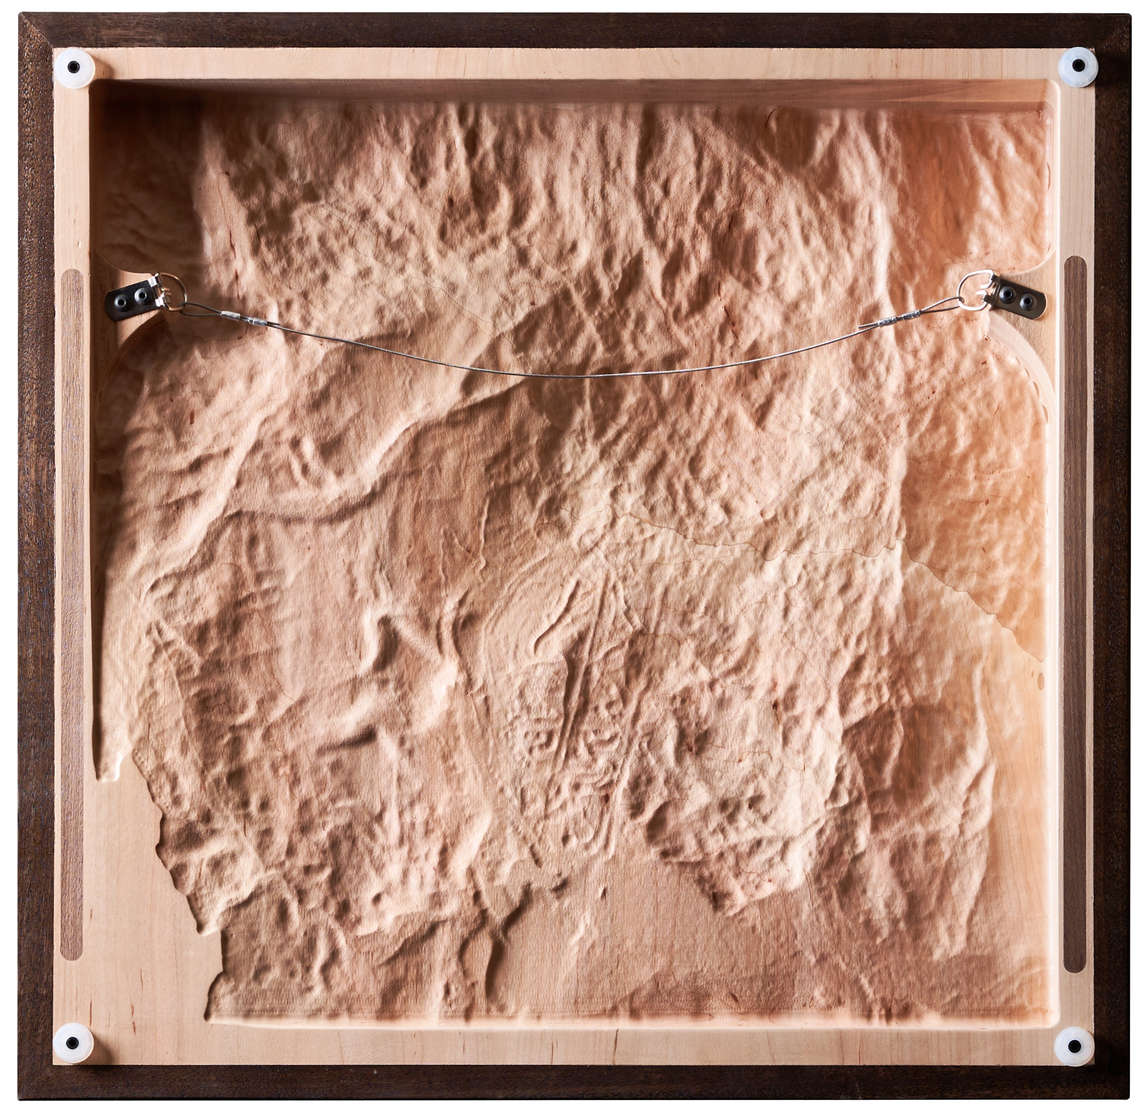
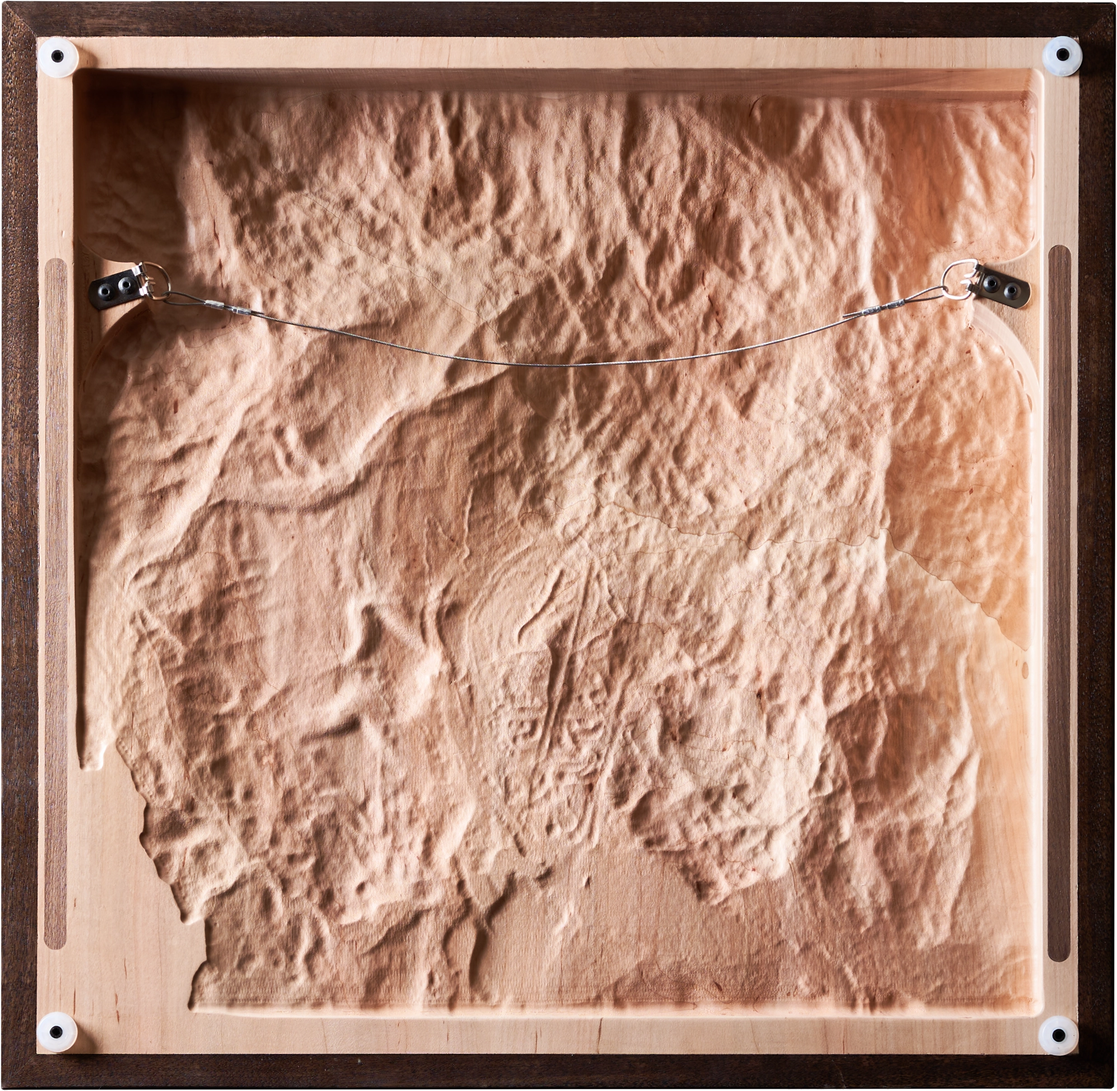
Update

diff --git a/pieces/highland.html b/pieces/highland.html
@@ -6,10 +6,10 @@
   <title>Highland Mountain Bike Trails — Bonas Studio</title>
   <link rel="stylesheet" href="../styles.css">
   <style>
-    .piece-hero { position: relative; background: transparent; /* Preserves transparent PNG backgrounds */ padding: 120px var(--space-4) 60px; min-height: auto; }
+    .piece-hero { position: relative; background: transparent; /* Preserves transparent PNG/WebP backgrounds */ padding: 120px var(--space-4) 60px; min-height: auto; }
     .piece-hero::after { content: ''; position: absolute; inset: 0; background: radial-gradient(ellipse at center, transparent 40%, rgba(0,0,0,0.02) 100%); pointer-events: none; z-index: 1; }
     .piece-hero-image-container { position: relative; z-index: 2; max-width: 1400px; margin: 0 auto; padding: 0 var(--space-6); }
-    .piece-hero-image { width: 100%; height: auto; display: block; box-shadow: 0 8px 24px rgba(0,0,0,0.12), 0 2px 6px rgba(0,0,0,0.08); opacity: 0; transform: translateY(20px); animation: fadeInUp 1.8s ease 0.2s forwards; }
+    .piece-hero-image { width: 100%; height: auto; display: block; /* Box-shadow removed - interferes with transparent PNG/WebP backgrounds */ opacity: 0; transform: translateY(20px); animation: fadeInUp 1.8s ease 0.2s forwards; }
     .piece-hero-content { position: relative; z-index: 2; max-width: 1400px; margin: var(--space-6) auto 0; padding: 0 calc(var(--space-6) + var(--space-2)); text-align: left; }
     .piece-hero-title { font-family: var(--font-primary); font-size: var(--text-xl); font-weight: var(--weight-regular); line-height: var(--leading-tight); color: var(--color-text-primary); margin: 0 0 var(--space-1); opacity: 0; animation: fadeInUp 1.8s ease 0.5s forwards; }
     .piece-hero-location { font-family: var(--font-secondary); font-size: var(--text-xs); font-weight: var(--weight-regular); text-transform: uppercase; letter-spacing: 0.15em; color: var(--color-brass); margin: 0; opacity: 0; animation: fadeInUp 1.8s ease 0.7s forwards; }
@@ -29,7 +29,7 @@
 .gallery-images { display: flex; flex-direction: column; gap: var(--space-8); max-width: 1200px; margin: 0 auto; padding: 0 var(--space-4); }
     .gallery-image-wrapper { position: relative; width: 100%; opacity: 0; transform: translateY(40px); transition: opacity 1.8s ease, transform 1.8s ease; }
     .gallery-image-wrapper.is-visible { opacity: 1; transform: translateY(0); }
-    .gallery-image-wrapper img { width: 100%; height: auto; display: block; box-shadow: 0 4px 12px rgba(0,0,0,0.08); }
+    .gallery-image-wrapper img { width: 100%; height: auto; display: block; /* Box-shadow removed - interferes with transparent PNG/WebP backgrounds */ }
     .gallery-caption { font-family: var(--font-secondary); font-size: var(--text-xs); font-style: italic; color: var(--color-text-secondary); text-align: left; margin: var(--space-2) 0 0; padding: 0 var(--space-2); opacity: 0.7; }
     .piece-artists-note { background: var(--color-bg-dark); padding: var(--section-padding-y) 0; }
     .artists-note-content { max-width: 800px; margin: 0 auto; }
@@ -76,7 +76,7 @@
   <main class="site-main">
     <section class="piece-hero" id="piece-hero">
       <div class="piece-hero-image-container">
-        <img src="../images/highland/highland.back.png" alt="Highland Mountain Bike Trails topographic relief map" class="piece-hero-image" />
+        <img src="../images/highland/highland.hero.webp" alt="Highland Mountain Bike Trails topographic relief map" class="piece-hero-image" />
       </div>
       <div class="piece-hero-content">
         <h1 class="piece-hero-title">Highland Mountain</h1>
@@ -126,15 +126,15 @@
             <p class="gallery-caption">Full piece showing entire topography</p>
           </div>
           <div class="gallery-image-wrapper fade-in-scroll">
-            <img src="../images/highland/highland.hero.webp" alt="Highland Mountain detail" />
+            <img src="../images/highland/highland.base.webp" alt="Highland Mountain detail" />
             <p class="gallery-caption">Detail of trail network</p>
           </div>
           <div class="gallery-image-wrapper fade-in-scroll">
-            <img src="../images/highland/highland.hero (1).webp" alt="Highland Mountain side angle" />
+            <img src="../images/highland/highland.detail.webp" alt="Highland Mountain side angle" />
             <p class="gallery-caption">Side angle showing depth</p>
           </div>
           <div class="gallery-image-wrapper fade-in-scroll">
-            <img src="../images/highland/highland.back (6).webp" alt="Highland Mountain wood grain" />
+            <img src="../images/highland/highland.back.webp" alt="Highland Mountain wood grain" />
             <p class="gallery-caption">Close view of wood grain</p>
           </div>
         </div>

diff --git a/pieces/fells.html b/pieces/fells.html
@@ -6,10 +6,10 @@
   <title>Middlesex Fells Reservation — Bonas Studio</title>
   <link rel="stylesheet" href="../styles.css">
   <style>
-    .piece-hero { position: relative; background: transparent; /* Preserves transparent PNG backgrounds */ padding: 120px var(--space-4) 60px; min-height: auto; }
+    .piece-hero { position: relative; background: transparent; /* Preserves transparent PNG/WebP backgrounds */ padding: 120px var(--space-4) 60px; min-height: auto; }
     .piece-hero::after { content: ''; position: absolute; inset: 0; background: radial-gradient(ellipse at center, transparent 40%, rgba(0,0,0,0.02) 100%); pointer-events: none; z-index: 1; }
     .piece-hero-image-container { position: relative; z-index: 2; max-width: 1400px; margin: 0 auto; padding: 0 var(--space-6); }
-    .piece-hero-image { width: 100%; height: auto; display: block; box-shadow: 0 8px 24px rgba(0,0,0,0.12), 0 2px 6px rgba(0,0,0,0.08); opacity: 0; transform: translateY(20px); animation: fadeInUp 1.8s ease 0.2s forwards; }
+    .piece-hero-image { width: 100%; height: auto; display: block; /* Box-shadow removed - interferes with transparent PNG/WebP backgrounds */ opacity: 0; transform: translateY(20px); animation: fadeInUp 1.8s ease 0.2s forwards; }
     .piece-hero-content { position: relative; z-index: 2; max-width: 1400px; margin: var(--space-6) auto 0; padding: 0 calc(var(--space-6) + var(--space-2)); text-align: left; }
     .piece-hero-title { font-family: var(--font-primary); font-size: var(--text-xl); font-weight: var(--weight-regular); line-height: var(--leading-tight); color: var(--color-text-primary); margin: 0 0 var(--space-1); opacity: 0; animation: fadeInUp 1.8s ease 0.5s forwards; }
     .piece-hero-location { font-family: var(--font-secondary); font-size: var(--text-xs); font-weight: var(--weight-regular); text-transform: uppercase; letter-spacing: 0.15em; color: var(--color-brass); margin: 0; opacity: 0; animation: fadeInUp 1.8s ease 0.7s forwards; }
@@ -29,7 +29,7 @@
 .gallery-images { display: flex; flex-direction: column; gap: var(--space-8); max-width: 1200px; margin: 0 auto; padding: 0 var(--space-4); }
     .gallery-image-wrapper { position: relative; width: 100%; opacity: 0; transform: translateY(40px); transition: opacity 1.8s ease, transform 1.8s ease; }
     .gallery-image-wrapper.is-visible { opacity: 1; transform: translateY(0); }
-    .gallery-image-wrapper img { width: 100%; height: auto; display: block; box-shadow: 0 4px 12px rgba(0,0,0,0.08); }
+    .gallery-image-wrapper img { width: 100%; height: auto; display: block; /* Box-shadow removed - interferes with transparent PNG/WebP backgrounds */ }
     .gallery-caption { font-family: var(--font-secondary); font-size: var(--text-xs); font-style: italic; color: var(--color-text-secondary); text-align: left; margin: var(--space-2) 0 0; padding: 0 var(--space-2); opacity: 0.7; }
     .piece-artists-note { background: var(--color-bg-dark); padding: var(--section-padding-y) 0; }
     .artists-note-content { max-width: 800px; margin: 0 auto; }

diff --git a/pieces/hurricane.html b/pieces/hurricane.html
@@ -6,10 +6,10 @@
   <title>Hurricane Mountain - Bonas Studio</title>
   <link rel="stylesheet" href="../styles.css">
   <style>
-    .piece-hero { position: relative; background: transparent; /* Preserves transparent PNG backgrounds */ padding: 120px var(--space-4) 60px; min-height: auto; }
+    .piece-hero { position: relative; background: transparent; /* Preserves transparent PNG/WebP backgrounds */ padding: 120px var(--space-4) 60px; min-height: auto; }
     .piece-hero::after { content: ''; position: absolute; inset: 0; background: radial-gradient(ellipse at center, transparent 40%, rgba(0,0,0,0.02) 100%); pointer-events: none; z-index: 1; }
     .piece-hero-image-container { position: relative; z-index: 2; max-width: 1400px; margin: 0 auto; padding: 0 var(--space-6); }
-    .piece-hero-image { width: 100%; height: auto; display: block; box-shadow: 0 8px 24px rgba(0,0,0,0.12), 0 2px 6px rgba(0,0,0,0.08); opacity: 0; transform: translateY(20px); animation: fadeInUp 1.8s ease 0.2s forwards; }
+    .piece-hero-image { width: 100%; height: auto; display: block; /* Box-shadow removed - interferes with transparent PNG/WebP backgrounds */ opacity: 0; transform: translateY(20px); animation: fadeInUp 1.8s ease 0.2s forwards; }
     .piece-hero-content { position: relative; z-index: 2; max-width: 1400px; margin: var(--space-6) auto 0; padding: 0 calc(var(--space-6) + var(--space-2)); text-align: left; }
     .piece-hero-title { font-family: var(--font-primary); font-size: var(--text-xl); font-weight: var(--weight-regular); line-height: var(--leading-tight); color: var(--color-text-primary); margin: 0 0 var(--space-1); opacity: 0; animation: fadeInUp 1.8s ease 0.5s forwards; }
     .piece-hero-location { font-family: var(--font-secondary); font-size: var(--text-xs); font-weight: var(--weight-regular); text-transform: uppercase; letter-spacing: 0.15em; color: var(--color-brass); margin: 0; opacity: 0; animation: fadeInUp 1.8s ease 0.7s forwards; }
@@ -29,7 +29,7 @@
     .gallery-images { display: flex; flex-direction: column; gap: var(--space-8); max-width: 1200px; margin: 0 auto; padding: 0 var(--space-4); }
     .gallery-image-wrapper { position: relative; width: 100%; opacity: 0; transform: translateY(40px); transition: opacity 1.8s ease, transform 1.8s ease; }
     .gallery-image-wrapper.is-visible { opacity: 1; transform: translateY(0); }
-    .gallery-image-wrapper img { width: 100%; height: auto; display: block; box-shadow: 0 4px 12px rgba(0,0,0,0.08); }
+    .gallery-image-wrapper img { width: 100%; height: auto; display: block; /* Box-shadow removed - interferes with transparent PNG/WebP backgrounds */ }
     .gallery-caption { font-family: var(--font-secondary); font-size: var(--text-xs); font-style: italic; color: var(--color-text-secondary); text-align: left; margin: var(--space-2) 0 0; padding: 0 var(--space-2); opacity: 0.7; }
     .piece-artists-note { background: var(--color-bg-dark); padding: var(--section-padding-y) 0; }
     .artists-note-content { max-width: 800px; margin: 0 auto; }

diff --git a/pieces/nantucket.html b/pieces/nantucket.html
@@ -6,10 +6,10 @@
   <title>Nantucket Island — Bonas Studio</title>
   <link rel="stylesheet" href="../styles.css">
   <style>
-    .piece-hero { position: relative; background: transparent; /* Preserves transparent PNG backgrounds */ padding: 120px var(--space-4) 60px; min-height: auto; }
+    .piece-hero { position: relative; background: transparent; /* Preserves transparent PNG/WebP backgrounds */ padding: 120px var(--space-4) 60px; min-height: auto; }
     .piece-hero::after { content: ''; position: absolute; inset: 0; background: radial-gradient(ellipse at center, transparent 40%, rgba(0,0,0,0.02) 100%); pointer-events: none; z-index: 1; }
     .piece-hero-image-container { position: relative; z-index: 2; max-width: 1400px; margin: 0 auto; padding: 0 var(--space-6); }
-    .piece-hero-image { width: 100%; height: auto; display: block; box-shadow: 0 8px 24px rgba(0,0,0,0.12), 0 2px 6px rgba(0,0,0,0.08); opacity: 0; transform: translateY(20px); animation: fadeInUp 1.8s ease 0.2s forwards; }
+    .piece-hero-image { width: 100%; height: auto; display: block; /* Box-shadow removed - interferes with transparent PNG/WebP backgrounds */ opacity: 0; transform: translateY(20px); animation: fadeInUp 1.8s ease 0.2s forwards; }
     .piece-hero-content { position: relative; z-index: 2; max-width: 1400px; margin: var(--space-6) auto 0; padding: 0 calc(var(--space-6) + var(--space-2)); text-align: left; }
     .piece-hero-title { font-family: var(--font-primary); font-size: var(--text-xl); font-weight: var(--weight-regular); line-height: var(--leading-tight); color: var(--color-text-primary); margin: 0 0 var(--space-1); opacity: 0; animation: fadeInUp 1.8s ease 0.5s forwards; }
     .piece-hero-location { font-family: var(--font-secondary); font-size: var(--text-xs); font-weight: var(--weight-regular); text-transform: uppercase; letter-spacing: 0.15em; color: var(--color-brass); margin: 0; opacity: 0; animation: fadeInUp 1.8s ease 0.7s forwards; }
@@ -29,7 +29,7 @@
 .gallery-images { display: flex; flex-direction: column; gap: var(--space-8); max-width: 1200px; margin: 0 auto; padding: 0 var(--space-4); }
     .gallery-image-wrapper { position: relative; width: 100%; opacity: 0; transform: translateY(40px); transition: opacity 1.8s ease, transform 1.8s ease; }
     .gallery-image-wrapper.is-visible { opacity: 1; transform: translateY(0); }
-    .gallery-image-wrapper img { width: 100%; height: auto; display: block; box-shadow: 0 4px 12px rgba(0,0,0,0.08); }
+    .gallery-image-wrapper img { width: 100%; height: auto; display: block; /* Box-shadow removed - interferes with transparent PNG/WebP backgrounds */ }
     .gallery-caption { font-family: var(--font-secondary); font-size: var(--text-xs); font-style: italic; color: var(--color-text-secondary); text-align: left; margin: var(--space-2) 0 0; padding: 0 var(--space-2); opacity: 0.7; }
     .piece-artists-note { background: var(--color-bg-dark); padding: var(--section-padding-y) 0; }
     .artists-note-content { max-width: 800px; margin: 0 auto; }

diff --git a/pieces/okemo.html b/pieces/okemo.html
@@ -6,10 +6,10 @@
   <title>Mount Okemo — Bonas Studio</title>
   <link rel="stylesheet" href="../styles.css">
   <style>
-    .piece-hero { position: relative; background: transparent; /* Preserves transparent PNG backgrounds */ padding: 120px var(--space-4) 60px; min-height: auto; }
+    .piece-hero { position: relative; background: transparent; /* Preserves transparent PNG/WebP backgrounds */ padding: 120px var(--space-4) 60px; min-height: auto; }
     .piece-hero::after { content: ''; position: absolute; inset: 0; background: radial-gradient(ellipse at center, transparent 40%, rgba(0,0,0,0.02) 100%); pointer-events: none; z-index: 1; }
     .piece-hero-image-container { position: relative; z-index: 2; max-width: 1400px; margin: 0 auto; padding: 0 var(--space-6); }
-    .piece-hero-image { width: 100%; height: auto; display: block; box-shadow: 0 8px 24px rgba(0,0,0,0.12), 0 2px 6px rgba(0,0,0,0.08); opacity: 0; transform: translateY(20px); animation: fadeInUp 1.8s ease 0.2s forwards; }
+    .piece-hero-image { width: 100%; height: auto; display: block; /* Box-shadow removed - interferes with transparent PNG/WebP backgrounds */ opacity: 0; transform: translateY(20px); animation: fadeInUp 1.8s ease 0.2s forwards; }
     .piece-hero-content { position: relative; z-index: 2; max-width: 1400px; margin: var(--space-6) auto 0; padding: 0 calc(var(--space-6) + var(--space-2)); text-align: left; }
     .piece-hero-title { font-family: var(--font-primary); font-size: var(--text-xl); font-weight: var(--weight-regular); line-height: var(--leading-tight); color: var(--color-text-primary); margin: 0 0 var(--space-1); opacity: 0; animation: fadeInUp 1.8s ease 0.5s forwards; }
     .piece-hero-location { font-family: var(--font-secondary); font-size: var(--text-xs); font-weight: var(--weight-regular); text-transform: uppercase; letter-spacing: 0.15em; color: var(--color-brass); margin: 0; opacity: 0; animation: fadeInUp 1.8s ease 0.7s forwards; }
@@ -29,7 +29,7 @@
 .gallery-images { display: flex; flex-direction: column; gap: var(--space-8); max-width: 1200px; margin: 0 auto; padding: 0 var(--space-4); }
     .gallery-image-wrapper { position: relative; width: 100%; opacity: 0; transform: translateY(40px); transition: opacity 1.8s ease, transform 1.8s ease; }
     .gallery-image-wrapper.is-visible { opacity: 1; transform: translateY(0); }
-    .gallery-image-wrapper img { width: 100%; height: auto; display: block; box-shadow: 0 4px 12px rgba(0,0,0,0.08); }
+    .gallery-image-wrapper img { width: 100%; height: auto; display: block; /* Box-shadow removed - interferes with transparent PNG/WebP backgrounds */ }
     .gallery-caption { font-family: var(--font-secondary); font-size: var(--text-xs); font-style: italic; color: var(--color-text-secondary); text-align: left; margin: var(--space-2) 0 0; padding: 0 var(--space-2); opacity: 0.7; }
     .piece-artists-note { background: var(--color-bg-dark); padding: var(--section-padding-y) 0; }
     .artists-note-content { max-width: 800px; margin: 0 auto; }

diff --git a/pieces/cape-ann.html b/pieces/cape-ann.html
@@ -6,10 +6,10 @@
   <title>Cape Ann — Bonas Studio</title>
   <link rel="stylesheet" href="../styles.css">
   <style>
-    .piece-hero { position: relative; background: transparent; /* Preserves transparent PNG backgrounds */ padding: 120px var(--space-4) 60px; min-height: auto; }
+    .piece-hero { position: relative; background: transparent; /* Preserves transparent PNG/WebP backgrounds */ padding: 120px var(--space-4) 60px; min-height: auto; }
     .piece-hero::after { content: ''; position: absolute; inset: 0; background: radial-gradient(ellipse at center, transparent 40%, rgba(0,0,0,0.02) 100%); pointer-events: none; z-index: 1; }
     .piece-hero-image-container { position: relative; z-index: 2; max-width: 1400px; margin: 0 auto; padding: 0 var(--space-6); }
-    .piece-hero-image { width: 100%; height: auto; display: block; box-shadow: 0 8px 24px rgba(0,0,0,0.12), 0 2px 6px rgba(0,0,0,0.08); opacity: 0; transform: translateY(20px); animation: fadeInUp 1.8s ease 0.2s forwards; }
+    .piece-hero-image { width: 100%; height: auto; display: block; /* Box-shadow removed - interferes with transparent PNG/WebP backgrounds */ opacity: 0; transform: translateY(20px); animation: fadeInUp 1.8s ease 0.2s forwards; }
     .piece-hero-content { position: relative; z-index: 2; max-width: 1400px; margin: var(--space-6) auto 0; padding: 0 calc(var(--space-6) + var(--space-2)); text-align: left; }
     .piece-hero-title { font-family: var(--font-primary); font-size: var(--text-xl); font-weight: var(--weight-regular); line-height: var(--leading-tight); color: var(--color-text-primary); margin: 0 0 var(--space-1); opacity: 0; animation: fadeInUp 1.8s ease 0.5s forwards; }
     .piece-hero-location { font-family: var(--font-secondary); font-size: var(--text-xs); font-weight: var(--weight-regular); text-transform: uppercase; letter-spacing: 0.15em; color: var(--color-brass); margin: 0; opacity: 0; animation: fadeInUp 1.8s ease 0.7s forwards; }
@@ -29,7 +29,7 @@
 .gallery-images { display: flex; flex-direction: column; gap: var(--space-8); max-width: 1200px; margin: 0 auto; padding: 0 var(--space-4); }
     .gallery-image-wrapper { position: relative; width: 100%; opacity: 0; transform: translateY(40px); transition: opacity 1.8s ease, transform 1.8s ease; }
     .gallery-image-wrapper.is-visible { opacity: 1; transform: translateY(0); }
-    .gallery-image-wrapper img { width: 100%; height: auto; display: block; box-shadow: 0 4px 12px rgba(0,0,0,0.08); }
+    .gallery-image-wrapper img { width: 100%; height: auto; display: block; /* Box-shadow removed - interferes with transparent PNG/WebP backgrounds */ }
     .gallery-caption { font-family: var(--font-secondary); font-size: var(--text-xs); font-style: italic; color: var(--color-text-secondary); text-align: left; margin: var(--space-2) 0 0; padding: 0 var(--space-2); opacity: 0.7; }
     .piece-artists-note { background: var(--color-bg-dark); padding: var(--section-padding-y) 0; }
     .artists-note-content { max-width: 800px; margin: 0 auto; }

diff --git a/pieces/cannon.html b/pieces/cannon.html
@@ -10,7 +10,7 @@
 
     .piece-hero {
       position: relative;
-      background: transparent; /* Preserves transparent PNG backgrounds */
+      background: transparent; /* Preserves transparent PNG/WebP backgrounds */
       padding: 120px var(--space-4) 60px;
       min-height: auto;
     }
@@ -36,7 +36,7 @@
       width: 100%;
       height: auto;
       display: block;
-      box-shadow: 0 8px 24px rgba(0,0,0,0.12), 0 2px 6px rgba(0,0,0,0.08);
+      /* Box-shadow removed - interferes with transparent PNG/WebP backgrounds */
       opacity: 0;
       transform: translateY(20px);
       animation: fadeInUp 1.8s ease 0.2s forwards;
@@ -92,7 +92,7 @@
 .gallery-images { display: flex; flex-direction: column; gap: var(--space-8); max-width: 1200px; margin: 0 auto; padding: 0 var(--space-4); }
     .gallery-image-wrapper { position: relative; width: 100%; opacity: 0; transform: translateY(40px); transition: opacity 1.8s ease, transform 1.8s ease; }
     .gallery-image-wrapper.is-visible { opacity: 1; transform: translateY(0); }
-    .gallery-image-wrapper img { width: 100%; height: auto; display: block; box-shadow: 0 4px 12px rgba(0,0,0,0.08); }
+    .gallery-image-wrapper img { width: 100%; height: auto; display: block; /* Box-shadow removed - interferes with transparent PNG/WebP backgrounds */ }
     .gallery-caption { font-family: var(--font-secondary); font-size: var(--text-xs); font-style: italic; color: var(--color-text-secondary); text-align: left; margin: var(--space-2) 0 0; padding: 0 var(--space-2); opacity: 0.7; }
 
     .piece-artists-note { background: var(--color-bg-dark); padding: var(--section-padding-y) 0; }

diff --git a/pieces/mahoosuc.html b/pieces/mahoosuc.html
@@ -11,7 +11,7 @@
     /* Hero Section - Gallery Wall Presentation */
     .piece-hero {
       position: relative;
-      background: transparent; /* Preserves transparent PNG backgrounds */
+      background: transparent; /* Preserves transparent PNG/WebP backgrounds */
       padding: 120px var(--space-4) 60px;
       min-height: auto;
     }
@@ -42,9 +42,7 @@
       width: 100%;
       height: auto;
       display: block;
-      box-shadow: 
-        0 8px 24px rgba(0,0,0,0.12),
-        0 2px 6px rgba(0,0,0,0.08);
+      /* Box-shadow removed - interferes with transparent PNG/WebP backgrounds */
       opacity: 0;
       transform: translateY(20px);
       animation: fadeInUp 1.8s ease 0.2s forwards;
@@ -123,7 +121,7 @@
       width: 100%;
       height: auto;
       display: block;
-      box-shadow: 0 4px 12px rgba(0,0,0,0.08);
+      /* Box-shadow removed - interferes with transparent PNG/WebP backgrounds */
     }
     
     .gallery-caption {

diff --git a/pieces/block.html b/pieces/block.html
@@ -11,7 +11,7 @@
     /* Hero Section - Gallery Wall Presentation */
     .piece-hero {
       position: relative;
-      background: transparent; /* Preserves transparent PNG backgrounds */
+      background: transparent; /* Preserves transparent PNG/WebP backgrounds */
       padding: 120px var(--space-4) 60px;
       min-height: auto;
     }
@@ -42,9 +42,7 @@
       width: 100%;
       height: auto;
       display: block;
-      box-shadow:
-        0 8px 24px rgba(0,0,0,0.12),
-        0 2px 6px rgba(0,0,0,0.08);
+      /* Box-shadow removed - interferes with transparent PNG/WebP backgrounds */
       opacity: 0;
       transform: translateY(20px);
       animation: fadeInUp 1.8s ease 0.2s forwards;
@@ -123,7 +121,7 @@
       width: 100%;
       height: auto;
       display: block;
-      box-shadow: 0 4px 12px rgba(0,0,0,0.08);
+      /* Box-shadow removed - interferes with transparent PNG/WebP backgrounds */
     }
 
     .gallery-caption {

diff --git a/pieces/mansfield.html b/pieces/mansfield.html
@@ -11,7 +11,7 @@
     /* Hero Section - Gallery Wall Presentation */
     .piece-hero {
       position: relative;
-      background: transparent; /* Preserves transparent PNG backgrounds */
+      background: transparent; /* Preserves transparent PNG/WebP backgrounds */
       padding: 120px var(--space-4) 60px;
       min-height: auto;
     }
@@ -42,9 +42,7 @@
       width: 100%;
       height: auto;
       display: block;
-      box-shadow:
-        0 8px 24px rgba(0,0,0,0.12),
-        0 2px 6px rgba(0,0,0,0.08);
+      /* Box-shadow removed - interferes with transparent PNG/WebP backgrounds */
       opacity: 0;
       transform: translateY(20px);
       animation: fadeInUp 1.8s ease 0.2s forwards;
@@ -123,7 +121,7 @@
       width: 100%;
       height: auto;
       display: block;
-      box-shadow: 0 4px 12px rgba(0,0,0,0.08);
+      /* Box-shadow removed - interferes with transparent PNG/WebP backgrounds */
     }
 
     .gallery-caption {

diff --git a/pieces/bromley.html b/pieces/bromley.html
@@ -11,7 +11,7 @@
     /* Hero Section - Gallery Wall Presentation */
     .piece-hero {
       position: relative;
-      background: transparent; /* Preserves transparent PNG backgrounds */
+      background: transparent; /* Preserves transparent PNG/WebP backgrounds */
       padding: 120px var(--space-4) 60px;
       min-height: auto;
     }
@@ -37,7 +37,7 @@
       width: 100%;
       height: auto;
       display: block;
-      box-shadow: 0 8px 24px rgba(0,0,0,0.12), 0 2px 6px rgba(0,0,0,0.08);
+      /* Box-shadow removed - interferes with transparent PNG/WebP backgrounds */
       opacity: 0;
       transform: translateY(20px);
       animation: fadeInUp 1.8s ease 0.2s forwards;
@@ -116,7 +116,7 @@
       width: 100%;
       height: auto;
       display: block;
-      box-shadow: 0 4px 12px rgba(0,0,0,0.08);
+      /* Box-shadow removed - interferes with transparent PNG/WebP backgrounds */
     }
 
     .gallery-caption {

diff --git a/styles.css b/styles.css
@@ -693,7 +693,7 @@ ul {
   width: 100%;
   /* aspect-ratio will be set by JavaScript */
   overflow: hidden;
-  background-color: transparent; /* Preserves transparent PNG backgrounds */
+  background-color: transparent; /* Preserves transparent PNG/WebP backgrounds */
   padding: 0;
   margin: 0;
   line-height: 0;
@@ -3081,7 +3081,7 @@ ul {
   padding: 0;
   margin: 0;
   line-height: 0;
-  background-color: transparent; /* Preserves transparent PNG backgrounds */
+  background-color: transparent; /* Preserves transparent PNG/WebP backgrounds */
   box-shadow: 0 10px 40px rgba(0, 0, 0, 0.1);
   transition: box-shadow 0.7s ease-out; /* UPDATED - Slower, more luxurious */
 }
